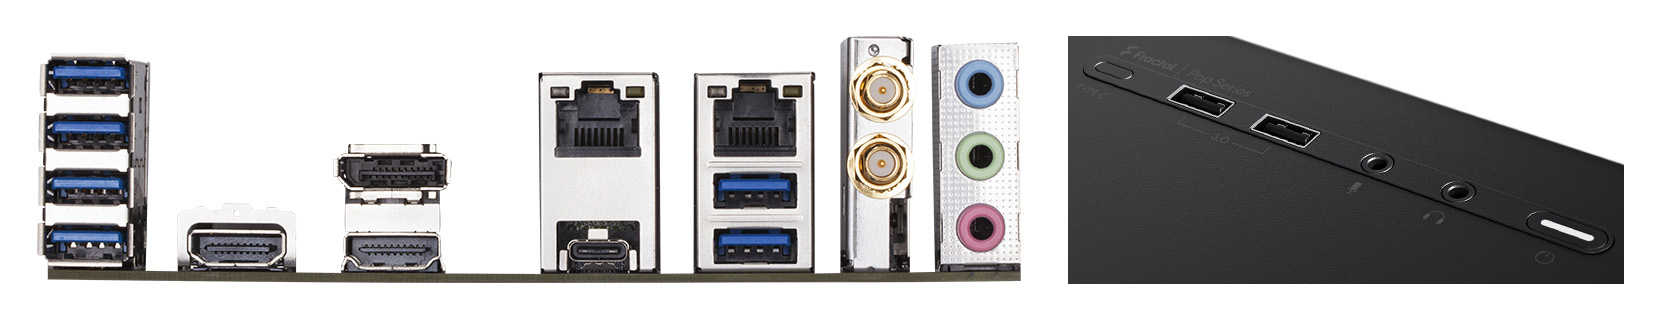
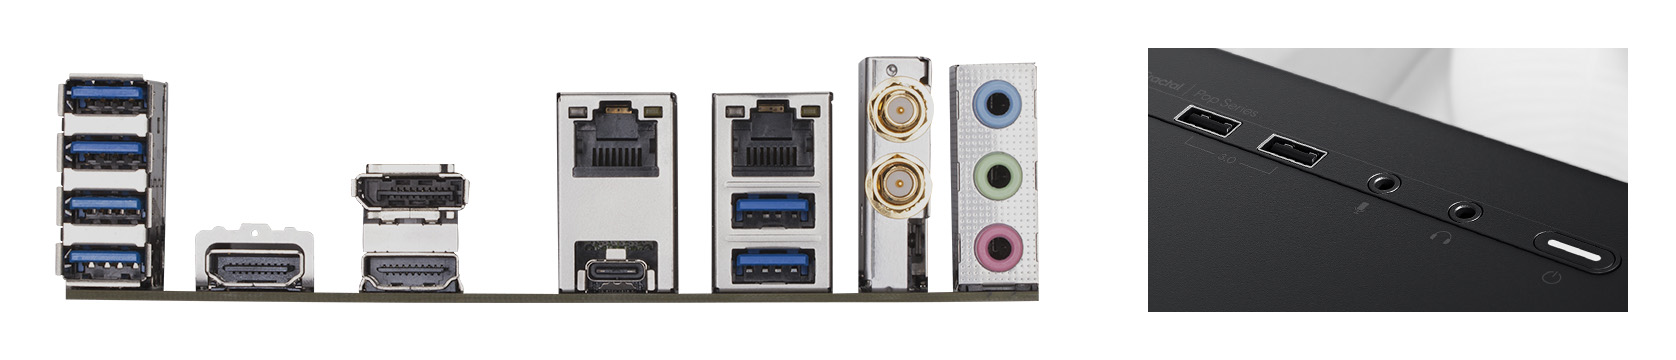
Update readme

diff --git a/README.md b/README.md
@@ -3,37 +3,40 @@ An OpenCore EFI for Gigabyte Z370n Wifi mini-ITX motherboard, with Coffee Lake p
 
 Though this is a "ready to use" EFI, it is for my own system, so **use at your own risk**. I recommend everyone to read [Dortania's OpenCore install guide](https://dortania.github.io/OpenCore-Install-Guide/). It's comprehensive, but take your time and have patience, there are no shortcuts to a perfect build.
 
-I'm publishing releases here to reference my own configurations and to share my EFI with others, for a little help on the way. With that said, I will probably not publish a release every time I update my OpenCore build. **Do not forget** to [generate SMBIOS info](https://dortania.github.io/OpenCore-Install-Guide/config.plist/coffee-lake.html#platforminfo) if you are planning on using this EFI in your build, since my releases does not include this information, for obvious reasons.
+I'm publishing releases here to reference my own configurations and to share my EFI with others, for a little help on the way. With that said, I will probably not publish a release every time I update my OpenCore build. **Do not forget** to [generate SMBIOS info](https://dortania.github.io/OpenCore-Install-Guide/config.plist/coffee-lake.html#platforminfo) if you are planning on using this EFI in your build, since my releases do not include this information, for obvious reasons.
 
 ![About this Mac](opencore_gigabyte_z370n_wifi_about_this_mac.jpg)
 
 ## Overview
+- This build runs macOS Sequoia natively, without OpenCore Legacy Patcher, using SMBIOS `iMac19,1`. macOS Tahoe removed AppleHDA, which the onboard Realtek audio needs through AppleALC, so Sequoia is the last macOS version where onboard audio works without root patching. That's why this build stays on Sequoia.
 - This build runs on a dedicated GPU, alongside the integrated GPU, which is only used for computing tasks and does not drive a display. If you are not using a dGPU you need to follow the [GPU patching](https://dortania.github.io/OpenCore-Post-Install/gpu-patching/) guide.
-- No beauty treatments were done in this build, that means no OpenCore GUI and no boot-chime. I want to keep everything minimal. You can enable all of this by following the [beauty treatment](https://dortania.github.io/OpenCore-Post-Install/cosmetic/gui.html) guide.
-- Wireless card for bluetooth and wifi is not replaced. I'm using the default motherboard Intel card. If you wish to swap the wireless card, remember to read [wireless buyers guide](https://dortania.github.io/Wireless-Buyers-Guide/) first.
+- No beauty treatments were done in this build, that means no OpenCore GUI and no boot-chime. I want to keep everything as lean and minimal as possible. You can enable all of this by following the [beauty treatment](https://dortania.github.io/OpenCore-Post-Install/cosmetic/gui.html) guide.
+- Wireless card for bluetooth and wifi is not replaced. I'm using the default motherboard Intel card (wifi currently disabled, see [known issues](#known-issues)). If you wish to swap the wireless card, remember to read [wireless buyers guide](https://dortania.github.io/Wireless-Buyers-Guide/) first.
 
 ## Hardware
 Remember to read the [anti-hackintosh buyers guide](https://dortania.github.io/Anti-Hackintosh-Buyers-Guide/) if you're planning on buying components for a new build.
 
 | Item        | Brand          | Model                                                                                                | Driver                                                                                                                                                 | Comment                         |
 | ----------- | -------------- | ---------------------------------------------------------------------------------------------------- | ------------------------------------------------------------------------------------------------------------------------------------------------------ | ------------------------------- |
-| Motherboard | Gigabyte       | Z370n Wifi                                                                                           | [OpenCorePkg](https://github.com/acidanthera/OpenCorePkg) <br>[Lilu](https://github.com/acidanthera/Lilu)                                              |                                 |
+| Motherboard | Gigabyte       | Z370n Wifi                                                                                           | [OpenCorePkg](https://github.com/acidanthera/OpenCorePkg) <br>[Lilu](https://github.com/acidanthera/Lilu)                                              | _BIOS version F14_              |
 | CPU         | Intel          | Core i7 8700K 3,7GHz                                                                                 | [VirtualSMC](https://github.com/acidanthera/VirtualSMC)                                                                                                | _Coffee Lake_                   |
 | RAM         | Corsair        | Vengeance LPX DDR4 2133MHz 16GB <sup>x2</sup>                                                        | native                                                                                                                                                 |                                 |
 | iGPU        | Intel          | UHD Graphics 630                                                                                     | [WhateverGreen](https://github.com/acidanthera/WhateverGreen)                                                                                          | _Headless mode_                 |
 | dGPU        | Asus           | RX 6600 DUAL V2 8GB                                                                                  | [WhateverGreen](https://github.com/acidanthera/WhateverGreen)                                                                                          |                                 |
 | SSD         | Samsung        | 970 EVO 500GB NVMe M.2 <sup>x2</sup> <br>850 EVO 250GB <sup>x1</sup> <br>840 EVO 250GB <sup>x1</sup> | [NVMeFix](https://github.com/acidanthera/NVMeFix) <br> <br> <br>                                                                                       | _macOS <br>Windows <br>Linux *_ |
 | HDD         | WD             | Green 3TB 3.5" <sup>x1</sup> <br>Green 2TB 3.5" <sup>x1</sup>                                        | native                                                                                                                                                 |                                 |
-| Wifi        | Intel          | AC 8265NGW <sup>802.11ac</sup>                                                                       | [AirportItlwm](https://github.com/OpenIntelWireless/itlwm)                                                                                             |                                 |
+| Wifi        | Intel          | AC 8265NGW <sup>802.11ac</sup>                                                                       | [AirportItlwm](https://github.com/OpenIntelWireless/itlwm)                                                                                             | _Disabled **_                   |
 | Bluetooth   | Intel          | AC 8265NGW <sup>v4.2</sup>                                                                           | [IntelBluetoothFirmware](https://github.com/OpenIntelWireless/IntelBluetoothFirmware) <br>[BlueToolFixup](https://github.com/acidanthera/BrcmPatchRAM) |                                 |
-| Ethernet    | Intel          | I219-V <sup>bottom port</sup> ~~<br>I211-AT <sup>top port</sup>~~                                    | [IntelMausi](https://github.com/acidanthera/IntelMausi)                                                                                                | _Only using I219-V_             |
+| Ethernet    | Intel          | I219-V <sup>bottom port</sup> ~~<br>I211-AT <sup>top port</sup>~~                                    | [IntelMausi](https://github.com/acidanthera/IntelMausi)                                                                                                | _Only using I219-V ***_         |
 | Audio       | Realtek        | ALC1220                                                                                              | [AppleALC](https://github.com/acidanthera/AppleALC)                                                                                                    | _Layout-ID 5_                   |
 | PSU         | Corsair        | RM750X V2 750W                                                                                       |                                                                                                                                                        |                                 |
 | Case        | Fractal Design | Pop Mini Silent                                                                                      |                                                                                                                                                        |                                 |
 | CPU cooler  | Cryorig        | H7                                                                                                   |                                                                                                                                                        |                                 |
-| Display     | Dell           | U2723QE 27" <br>P2722DE 27" <br>P2422H 24"                                                           |                                                                                                                                                        |                                 |
+| Display     | Dell           | U2723QE 27" <br>U2722DE 27" <br>P2422H 24"                                                           |                                                                                                                                                        |                                 |
 
-<sup>_* Extra drivers needed when dualbooting with Linux, [Dualbooting with Linux](https://dortania.github.io/OpenCore-Multiboot/oc/linux.html#method-a-openlinuxboot) using method A._</sup>
+<sup>_* Extra drivers needed when dualbooting with Linux, [Dualbooting with Linux](https://dortania.github.io/OpenCore-Multiboot/oc/linux.html#method-a-openlinuxboot) using method A._</sup><br>
+<sup>_** Wifi stopped working after Sequoia update, see [known issues](#known-issues)._</sup><br>
+<sup>_*** Top ethernet port stopped working after Monterey update, see [known issues](#known-issues)._</sup>
 
 ## BIOS setup
 Begin by loading optimized default options, then make sure settings are as below.
@@ -51,7 +54,7 @@ Begin by loading optimized default options, then make sure settings are as below
 | `Secure Boot`                    | Secure Boot                     | Disabled     | _**Recommended \***_                   |
 | **Peripherals**                  | Initial Display Output          | PCIe 1 Slot  | _This build has a dGPU_                |
 |                                  | Above 4G Decoding               | Enabled      | _**Recommended \***_                   |
-|                                  | Re-Size BAR Support             | Disabled     |                                        |
+|                                  | Re-Size BAR Support             | Disabled     | _macOS gets nothing from it ***_       |
 |                                  | RGB Fusion                      | Off          | _Personal preference_                  |
 |                                  | Intel Platform Trust Technology | Disabled     | _**Recommended \***_                   |
 |                                  | SW Guard Extens. (SGX)          | Disabled     | _**Recommended \***_                   |
@@ -69,10 +72,44 @@ Begin by loading optimized default options, then make sure settings are as below
 |                                  | IOAPIC 24-119 Entries           | Enabled      |                                        |
 | **Power**                        | ErP                             | Enabled      | _Personal preference_                  |
 |                                  | RC6(Render Standby)             | Disabled     | _Personal preference_                  |
+| **Hidden**                       | CFG Lock                        | Disabled     | _Hidden in BIOS ****_                  |
 | **Save & Exit**                  | Save & Exit Setup               | Yes          | _Save BIOS and reset_                  |
 
 <sup>_* As recommended in OpenCore install guide, [Coffee Lake: Intel BIOS settings](https://dortania.github.io/OpenCore-Install-Guide/config.plist/coffee-lake.html#intel-bios-settings)._</sup><br>
-<sup>_** You need to set Internal Graphics > Enabled, then Save & Exit Setup before these options are available. Enter BIOS setup again and confirm settings._</sup>
+<sup>_** You need to set Internal Graphics > Enabled, then Save & Exit Setup before these options are available. Enter BIOS setup again and confirm settings._</sup><br>
+<sup>_*** If you enable Re-Size BAR anyway, macOS will not boot unless you set Booter > Quirks > ResizeAppleGpuBars to `0`._</sup><br>
+<sup>_**** Not in the BIOS menu on F14. It must be unlocked once with a shell command, since this EFI has the AppleXcpmCfgLock quirk turned off. See [CFG Lock](#cfg-lock)._</sup>
+
+## CFG Lock
+
+BIOS F14 has no CFG Lock option, so it's unlocked through the hidden BIOS variable instead ([Dortania: Fixing CFG Lock](https://dortania.github.io/OpenCore-Post-Install/misc/msr-lock.html), option 2). With CFG Lock unlocked, `AppleXcpmCfgLock` is **off** in this EFI.
+
+[setup_var.efi](https://github.com/datasone/setup_var.efi/releases) is included in `EFI/OC/Tools`. Its Misc > Tools entry in config.plist is disabled on purpose, since it's started from OpenShell instead.
+
+> ⚠ Do this before using this EFI. With CFG Lock still locked and the quirk off, macOS panics early in boot.
+
+1. In the OpenCore picker, press Space to show tools and choose OpenShell.efi. A text prompt appears (`Shell>`).
+2. Find the partition with OpenCore. Type `ls fs0:\EFI\OC\Tools`, then `ls fs1:\EFI\OC\Tools` and so on, until `setup_var.efi` is listed. Then switch to it and go to the tools folder, for example `fs10:` and then `cd EFI\OC\Tools`.
+3. Read the current value: `setup_var.efi Setup:0x5A4`. It should say `0x01` (locked). If it already says `0x00`, it's unlocked and you can skip step 4.
+4. Unlock: `setup_var.efi Setup:0x5A4=0x00`
+5. Shut down completely: `reset -s`
+6. Boot into macOS and check that `sysctl -n machdep.xcpm.mode` in Terminal returns `1`
+
+The offset `0x5A4` is only valid for BIOS **F14**. A CMOS clear or "Load Optimized Defaults" locks it again, so repeat steps 1–5. An OpenCore Reset NVRAM does not lock it again.
+
+<details>
+  <summary><small>Note to self: Keyboard layout in OpenShell</small></summary>
+  <br>
+  <small>
+  OpenShell uses a US keyboard layout. On a Swedish keyboard:
+
+  `:` > Shift + the `Ö` key<br>
+  `\` > the `*` key (left of Enter)<br>
+  `_` > Shift + the `?` key<br>
+  `=` > the `´` key (left of Backspace)<br>
+  `-` > the `+` key
+  </small>
+</details>
 
 ## USB ports
 For USB mapping I enabled **seven** physical ports, and bluetooth. Remember that you can have a total of 15 ports per USB controller, this board has only one controller. USB 3.1 counts as two ports for backward compatibility. USB-C port on this motherboard is a non-switch variant, it counts as three ports. See image and table below which ports are available and which I chose to map in USBPorts.kext. Use [USBMap](https://github.com/corpnewt/USBMap) or [Hackintool](https://github.com/headkaze/Hackintool) if you wish to create your own USB map.
@@ -96,7 +133,7 @@ For USB mapping I enabled **seven** physical ports, and bluetooth. Remember that
 <sup>_** I have no PCI bracket for the USB 2.0 Header, so I could not recognize the names for those ports._</sup>
 
 ## Audio layout
-For audio layout i used **layout-ID 5**, it seemed most appropriate. Layout-ID 3 works as well, with the same exact functionality*. All other compatible layouts for this audio chipset were tested and did not work fully.
+For audio layout I used **layout-ID 5**, it seemed most appropriate. Layout-ID 3 works as well, with the same exact functionality*. All other compatible layouts for this audio chipset were tested and did not work fully.
 
 ![Blue audio jack](https://dummyimage.com/11/0000fd/0000fd) Blue audio jack acts as `Line In`<br>
 ![Green audio jack](https://dummyimage.com/11/00ad00/00ad00) Green audio jack acts as `Internal Speakers`<br>
@@ -109,32 +146,36 @@ For audio layout i used **layout-ID 5**, it seemed most appropriate. Layout-ID 3
 <sup>_* The only difference between these layouts is that layout5.xml has the key MaximumBootBeepValue, value 64. It also has different PathMapID for SPDIFOut. To use S/PDIF with this motherboard however, you need to connect an expansion card, which I don't have, so I can't test it._</sup>
 
 ## What works?
-Almost everything works. ~~Wifi~~ and bluetooth (using the internal Intel card), dGPU + iGPU acceleration, HDMI audio, wake up from display sleep. Bottom Ethernet port, all USB ports (only some are enabled) including USB-C, all Audio ports. Sleep, ~~AirDrop/Handoff/Continuity~~, iMessage, FaceTime and other iServices. Only a [few minor things](#known-issues) does not work fully.
+Almost everything works. ~~Wifi~~ and bluetooth (using the internal Intel card), dGPU + iGPU acceleration, multiple displays, HDMI audio. Bottom Ethernet port, all USB ports (only some are enabled) including USB-C, all Audio ports. Sleep and wake, ~~AirDrop/Handoff/Continuity~~, iMessage, FaceTime and other iServices. Only a [few minor things](#known-issues) do not work fully.
 
 ## Known issues
 - [ ] TRIM during boot takes a long while if it's activated.
 
-<sup>_Samsung SSD's are not macOS TRIM-supported. Fixed by setting key SetApfsTrimTimeout to 0. Build now boots instantaneously._</sup>
+<sup>_Samsung SSDs are not macOS TRIM-supported. Fixed by setting key SetApfsTrimTimeout to 0. Build now boots instantaneously._</sup>
 
 - [ ] Wifi stopped working after Sequoia update.
 
-<sup>_macOS no longer natively supports any wireless cards. Perhaps future drivers will solve issue?_</sup>
+<sup>_macOS no longer natively supports any wireless cards. The latest AirportItlwm (v2.3.0) only has builds up to Sonoma 14.4, so the kext is kept in the EFI but disabled in config.plist. Enable it again if a Sequoia build is released._</sup>
 
-- [ ] AirDrop/Handoff/Continuity does not work after Sonoma update.
+- [ ] AirDrop/Handoff/Continuity stopped working after Sonoma update.
 
-<sup>_macOS no longer natively supports any wireless cards. Perhaps future drivers will solve issue?_</sup>
+<sup>_macOS no longer natively supports any wireless cards. Perhaps future drivers will solve the issue?_</sup>
 
 - [ ] Continuity Camera does not work wirelessly, only works with USB connection.
 
-<sup>_macOS no longer natively supports any wireless cards. Perhaps future drivers will solve issue?_</sup>
+<sup>_macOS no longer natively supports any wireless cards. Perhaps future drivers will solve the issue?_</sup>
 
-- [ ] I211-AT top ethernet port is not working after Monterey update. It shows up in Network settings, but can't connect to anything.
+- [ ] macOS updates download the full installer instead of a small delta update.
+
+<sup>_BlueToolFixup patches `/usr/sbin/BlueTool` in memory, so the delta update fails its file check and macOS falls back to the full installer. To get the small update, disable BlueToolFixup.kext in config.plist during the update (use a USB keyboard), then enable it again._</sup>
+
+- [ ] I211-AT top ethernet port stopped working after Monterey update. It shows up in Network settings, but can't connect to anything.
 
 <sup>_I don't mind this, since I'm only using one ethernet port. There are some pre-releases of kexts to get the second port working, but I chose not to use them due to instability._</sup>
 
-- [x] System hangs with Windows Memory integrity enabled.
+- [ ] System hangs with Windows Memory integrity enabled.
 
-<sup>_Running dual OS system, macOS + Windows, enabling Device security > Memory integrity in Windows, system hangs during startup, at the BIOS logo. You will never get past the logo to the OpenCore boot picker. BE AWARE to not enabling this setting in Windows._</sup>
+<sup>_Running dual OS system, macOS + Windows, enabling Device security > Memory integrity in Windows, system hangs during startup, at the BIOS logo. You will never get past the logo to the OpenCore boot picker. Be aware not to enable this setting in Windows._</sup>
 
 ## Extras
 
@@ -143,7 +184,7 @@ Almost everything works. ~~Wifi~~ and bluetooth (using the internal Intel card),
   <summary>Quick guide on how to debug OpenCore with my releases.</summary>
   <br>
 
-  My releases are prepared for easy dubugging, all you have to do is download the DEBUG version of [OpenCorePkg](https://github.com/acidanthera/OpenCorePkg). Reminder, it's a good idea booting the debug EFI from a USB stick.
+  My releases are prepared for easy debugging, all you have to do is download the DEBUG version of [OpenCorePkg](https://github.com/acidanthera/OpenCorePkg). Reminder, it's a good idea booting the debug EFI from a USB stick.
 
   **Swap the following files:**
 
@@ -169,7 +210,7 @@ Almost everything works. ~~Wifi~~ and bluetooth (using the internal Intel card),
 Visit my [Quick Reference Guide](https://github.com/jimpalompa/macOS-OpenCore-Quick-Reference-Guide) for more macOS and OpenCore commands, guides, fixes and features.
 
 ## Software
-A collection of apps that may come handy when configuring your build. Reminder, if you wish to use this EFI in your own build, you need to [generate SMBIOS info](https://dortania.github.io/OpenCore-Install-Guide/config.plist/coffee-lake.html#platforminfo) first. System will not boot without it. Use EFI at your own risk.
+A collection of apps that may come in handy when configuring your build. Reminder, if you wish to use this EFI in your own build, you need to [generate SMBIOS info](https://dortania.github.io/OpenCore-Install-Guide/config.plist/coffee-lake.html#platforminfo) first. System will not boot without it. Use EFI at your own risk.
 
 [GenSMBIOS](https://github.com/corpnewt/GenSMBIOS) for generating SMBIOS<br>
 [MountEFI](https://github.com/corpnewt/MountEFI) for mounting EFI partitions<br>
